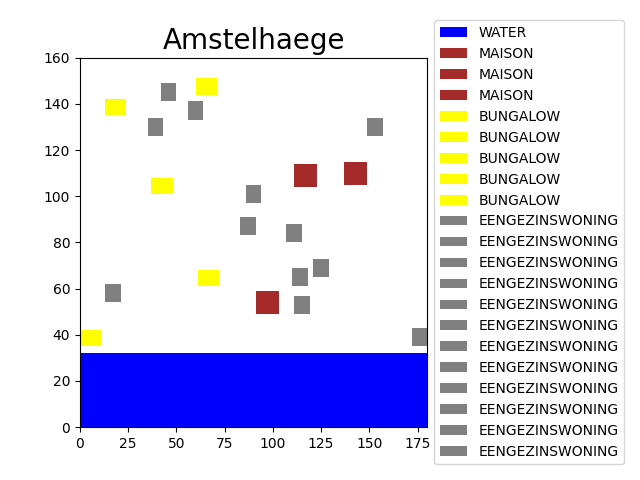
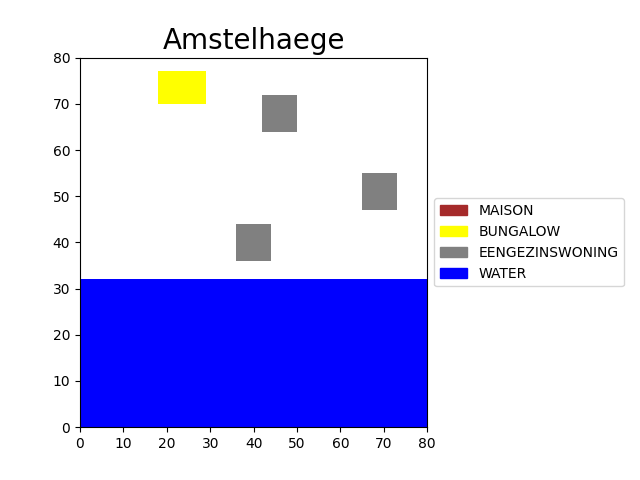
legend, cost function aangepast

diff --git a/code/classes/models.py b/code/classes/models.py
@@ -1,6 +1,9 @@
 import csv
 import random
 
+WIDTH_MAX  = 80
+HEIGHT_MAX = 80
+
 class House():
     def __init__(self, type, uid, length , width , bottom_left, min_distance):
         self.type = type
@@ -27,15 +30,15 @@ class House():
 
     def cost_function(self, min_distance):
         # Generates the costs per house
-        self.distance = min_distance
+        self.min_distance = min_distance
         if self.type =='maison':
-            self.cost = 610000 * (1 + (0.06 * (self.distance-6)))
+            self.cost = 610000 * (1 + (0.06 * (self.min_distance-6)))
             return self.cost
         if self.type =='eengezinswoning':
-            self.cost = 285000 * (1 + (0.03 * (self.distance-2)))
+            self.cost = 285000 * (1 + (0.03 * (self.min_distance-2)))
             return self.cost
         if self.type =='bungalow':
-            self.cost = 399000 * (1 + (0.04 * (self.distance-3)))
+            self.cost = 399000 * (1 + (0.04 * (self.min_distance-3)))
             return self.cost
 
     def intersect(self, other, water):
@@ -43,18 +46,23 @@ class House():
         top_right = self.top_right.split(",")
         other_bottom_left = other.bottom_left.split(",")
         other_top_right = other.top_right.split(",")
+        
         if water:
             min_distance = 0
         else:
             min_distance = max(self.min_distance, other.min_distance)
+
         test1 = (int(bottom_left[0]) - min_distance) >= int(other_top_right[0])
         test2 = int(other_bottom_left[0]) >= (int(top_right[0]) + min_distance)
         if ( test1 or test2):
             return False
+        
         test1 = (int(bottom_left[1]) - min_distance) >= int(other_top_right[1])
         test2 = int(other_bottom_left[1]) >= (int(top_right[1]) + min_distance)
         if(test1 or test2):
             return False
+        
+        
         return True
 
 
@@ -127,8 +135,8 @@ class Map():
                  amount_maisons = amount_maisons -1
              valid = True
              while valid == True:
-                x_bottomleft = random.randint(0,(180 - width))
-                y_bottomleft = random.randint(0,(160 - height))
+                x_bottomleft = random.randint(0,(WIDTH_MAX - width))
+                y_bottomleft = random.randint(0,(HEIGHT_MAX - height))
                 houses[teller] = House(x, id_house, height, width, str(x_bottomleft) + ',' + str(y_bottomleft), min_distance)
                 for j in range(0, len(self.all_waters)):
                     water = self.all_waters[j]
@@ -145,28 +153,43 @@ class Map():
 
     def total_cost(self):
         total_cost = 0
+        DEBUG_housenr = 0
         for house in self.all_houses.items():
             house = house[1]
+            
             orig_length = house.length
-            orig_width = house.width
-            min_count = 180
+            orig_width  = house.width
+            min_count   = WIDTH_MAX
+
             for other_house in self.all_houses.items():
-                temp_house = House(house.type, house.id, orig_length, orig_width,
+                if other_house == house:
+                    continue
+
+                temp_house  = House(house.type, house.id, orig_length, orig_width,
                                 house.bottom_left, house.min_distance)
+
                 other_house = other_house[1]
                 count = 0
                 while temp_house.intersect(other_house, True) == False:
-                    x = house.bottom_left.split(',')
-                    count = count + 1
+                    x      = house.bottom_left.split(',')
+
+                    count  = count + 1
                     length = temp_house.length + 2
-                    width = temp_house.width + 2
+                    width  = temp_house.width + 2
+
                     x[0] = int(x[0]) - count
                     x[1] = int(x[1]) - count
+                    
                     temp_house = House(house.type, house.id, length, width,
                                     str(x[0]) + ',' + str(x[1]), house.min_distance)
 
+                    # check if left bottom coords hit left/bottom side of map, check if right top coords hit right/top side of map
+                    if (x[0] <= 0 or x[1] <= 0) or (x[0] + temp_house.width >= WIDTH_MAX or x[1] + temp_house.length >= HEIGHT_MAX):
+                        break
+
                 if  0 < count and count < min_count:
                     min_count = count
-
+            DEBUG_housenr = DEBUG_housenr + 1
+            print ("("+str(DEBUG_housenr)+")"+str(house.type) + ": " + str(house.min_distance)+"\n")
             total_cost = total_cost + house.cost_function(min_count - 1)
         return total_cost

diff --git a/code/visualisation/visualize.py b/code/visualisation/visualize.py
@@ -1,9 +1,10 @@
 import matplotlib.pyplot as plt
 import csv
-from matplotlib.patches import Rectangle
+from matplotlib.patches import Rectangle, Patch
 
-WIDTH_MAX = 180
-HEIGHT_MAX = 160
+
+WIDTH_MAX  = 80 
+HEIGHT_MAX = 80
 
 def visualisation(output):
     datapoints = []
@@ -21,22 +22,21 @@ def visualisation(output):
         top_right = row[3].split(',')
         top_left = row[4].split(',')
         type_house = row[5].strip()
+        color_dict = {'MAISON': 'brown', 'BUNGALOW': 'yellow', 'EENGEZINSWONING': 'grey', 'WATER': 'blue'}
         house_color = ''
-        if type_house == 'WATER':
-            house_color = 'blue'
-        elif type_house == 'EENGEZINSWONING':
-            house_color = 'grey'
-        elif type_house == 'BUNGALOW':
-            house_color = 'yellow'
-        elif type_house == 'MAISON':
-            house_color = 'brown'
+        patch_list = []
+        for key,value in color_dict.items(): 
+            legend_key = Patch(color = color_dict[key], label=key)
+            patch_list.append(legend_key)
+            if key == type_house:
+                house_color = value
         ax.add_patch(Rectangle((int(bottom_left[0]), int(bottom_left[1])), int(bottom_right[0]) - int(bottom_left[0]),
-                int(top_left[1]) - int(bottom_left[1]), facecolor = house_color, label = type_house))
+                int(top_left[1]) - int(bottom_left[1]), facecolor = house_color))
 
     box = ax.get_position()
     ax.set_position([box.x0, box.y0, box.width * 0.7, box.height])
     plt.title('Amstelhaege', fontsize=20)
-    plt.legend(bbox_to_anchor=(1, 0.5), loc="center left")
+    plt.legend(bbox_to_anchor=(1, 0.5), loc="center left", handles = patch_list)
     plt.xlim(0, WIDTH_MAX)
     plt.ylim(0, HEIGHT_MAX)
     plt.savefig('visualisation.png',)

diff --git a/main.py b/main.py
@@ -4,7 +4,7 @@ from code.visualisation.visualize import visualisation
 
 if __name__ == "__main__":
 
-    amount_of_houses = 20
+    amount_of_houses = 6
     test_kaart = Map('docs/wijk_1.csv', amount_of_houses)
     row_list = []
 
